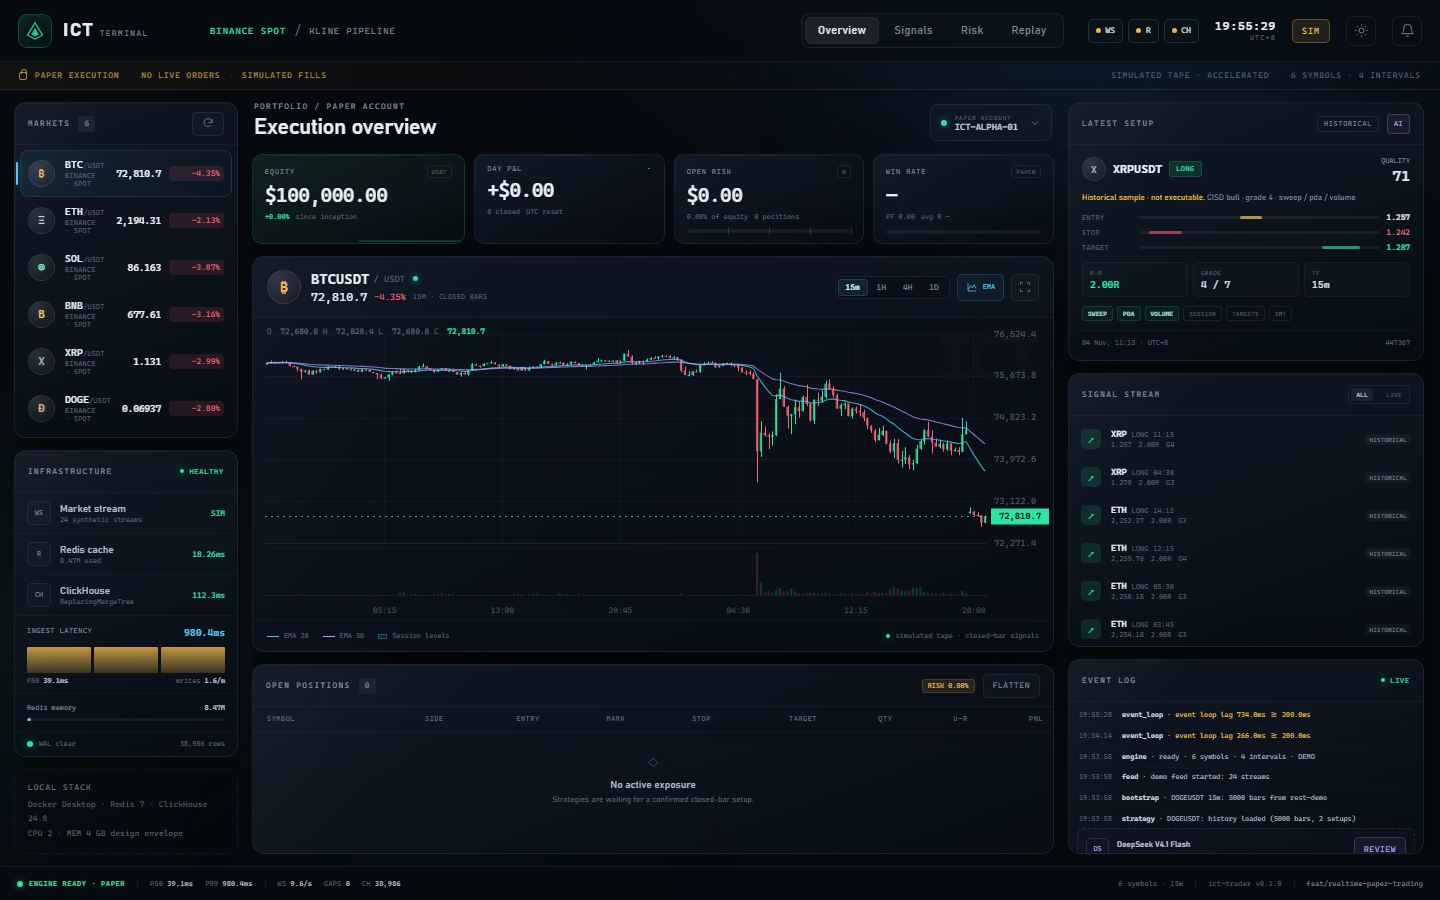
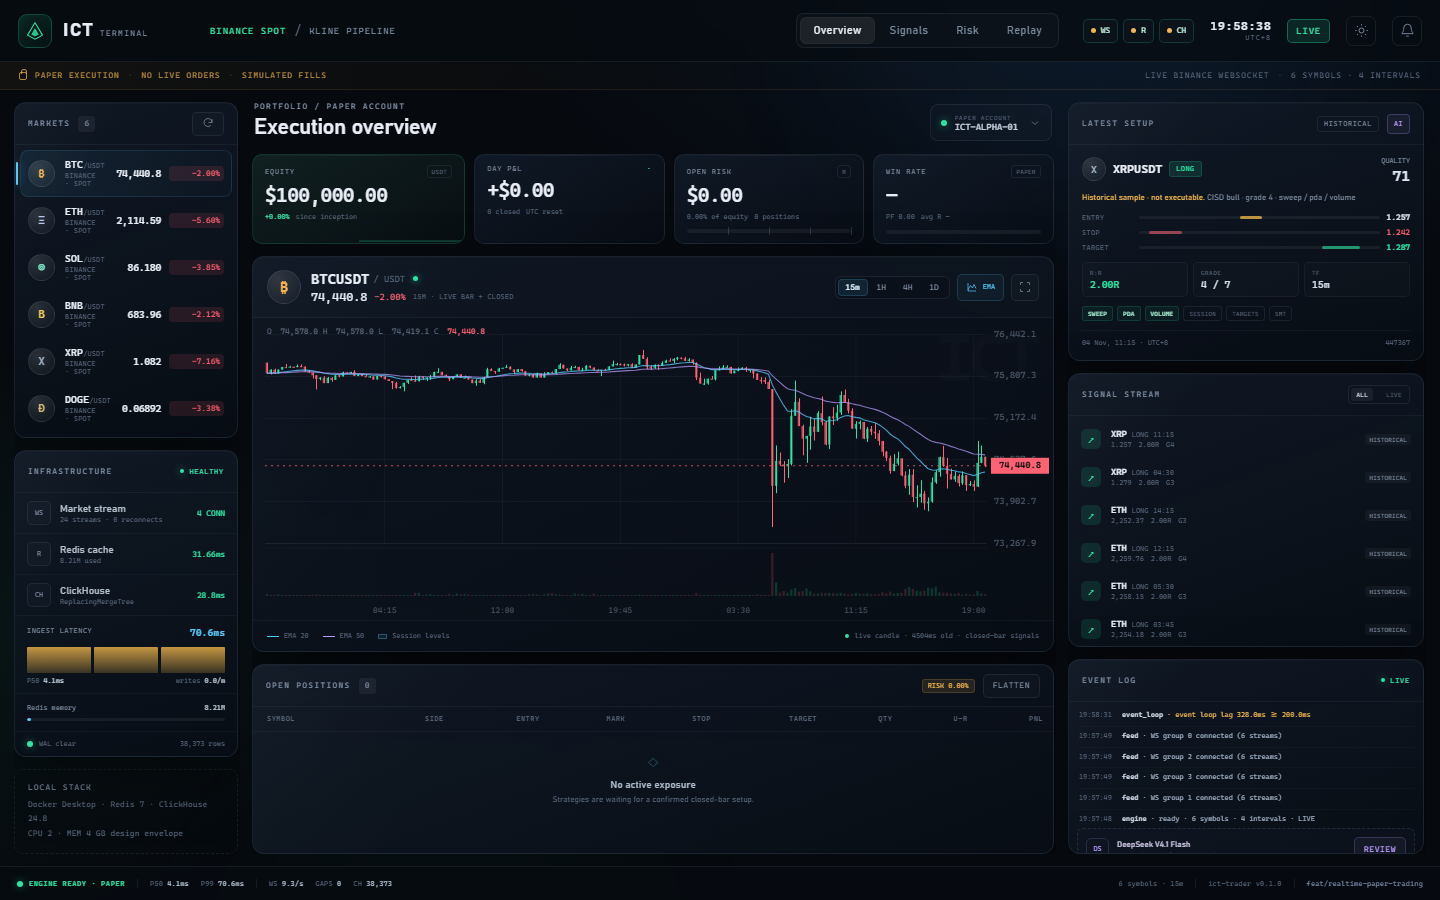
docs: record live Binance parity check

diff --git a/docs/REALTIME.md b/docs/REALTIME.md
@@ -226,6 +226,22 @@ The chart renderer reads the active palette (grid, candles, EMA, volume,
 crosshair, signal levels) from the same theme state, so canvas and CSS stay in
 sync. The chart does not require a page reload or a second chart instance.
 
+### Live price parity check
+
+An isolated live Binance run was compared with the same 15m exchange kline:
+
+```text
+same open_time:     1794224700000
+dashboard close:    74,441.99
+exchange close:     74,440.81
+absolute diff:      1.18 USDT (0.0016%)
+live bar age:       596 ms at query time
+```
+
+The residual difference is normal tick movement between the WS snapshot and the
+independent REST query. The dashboard header, watchlist, chart last candle and
+`/api/klines?include_live=true` all use the same live bar.
+
 ### Signal ↔ K-line alignment
 
 Every paper signal carries `source_kline_open_time` (also exposed as
